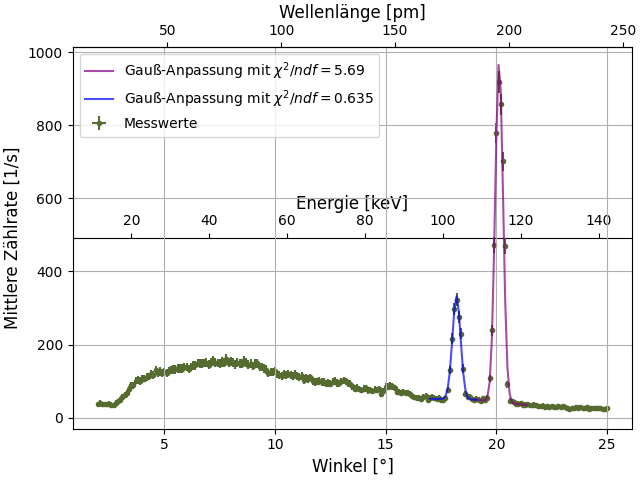
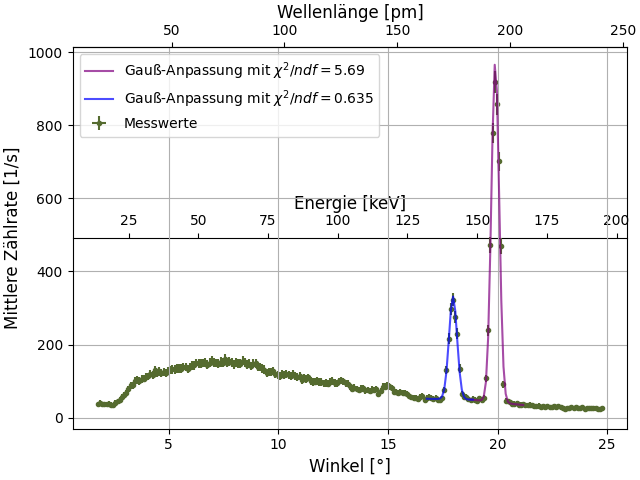
modified:   428/Gitter.py 	modified:   428/NaCl281.97.png

diff --git a/428/Gitter.py b/428/Gitter.py
@@ -13,7 +13,7 @@ def gausfit(func, x, y, farbe, beta):
 
     model = odr.Model(func)
     mydata = odr.RealData(x, y, sx=1e-2, sy=np.sqrt(y))
-    myodr = odr.ODR(mydata, model, beta0=beta, maxit=1000)
+    myodr = odr.ODR(mydata, model, beta0=beta, maxit=10000)
     out = myodr.run()
     
     print(nm2Ev(out.beta[1]))
@@ -46,7 +46,7 @@ data = pd.read_csv(f'{path}\\DatenD1\\NaCl281.97.txt', sep="\t", header=0, names
 data['b'] = data['b'].str.replace(',', '.').astype(float)
 data['R'] = data['R'].str.replace(',', '.').astype(float)
 
-xData = data['b'].values
+xData = data['b'].values - 0.23
 yData = data['R'].values
 
 xP1 = xData[150:172]
